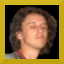
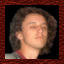
arrumado os trecos dos retratos

Changed region(s): [[0.0, 0.0, 1.0, 1.0]]

diff --git a/src/engine/dccnit.cpp b/src/engine/dccnit.cpp
@@ -2357,8 +2357,8 @@ void engine::Draw()
 
    /* Get Portrait position */
    gluUnProject(SCREEN_X,SCREEN_Y, 0.01, modl, proj, viewPort, &x1, &y1, &z1);
-   gluUnProject(SCREEN_X,SCREEN_Y-64,0.01, modl, proj, viewPort, &x2, &y2, &z2);
-   gluUnProject(SCREEN_X-64,SCREEN_Y-64,0.01,modl,proj,viewPort, &x3, &y3, &z3);
+   gluUnProject(SCREEN_X,SCREEN_Y-74,0.01, modl, proj, viewPort, &x2, &y2, &z2);
+   gluUnProject(SCREEN_X-64,SCREEN_Y-74,0.01,modl,proj,viewPort, &x3, &y3, &z3);
    gluUnProject(SCREEN_X-64,SCREEN_Y,0.01, modl, proj, viewPort, &x4, &y4, &z4);
 
    glDisable(GL_LIGHTING);
